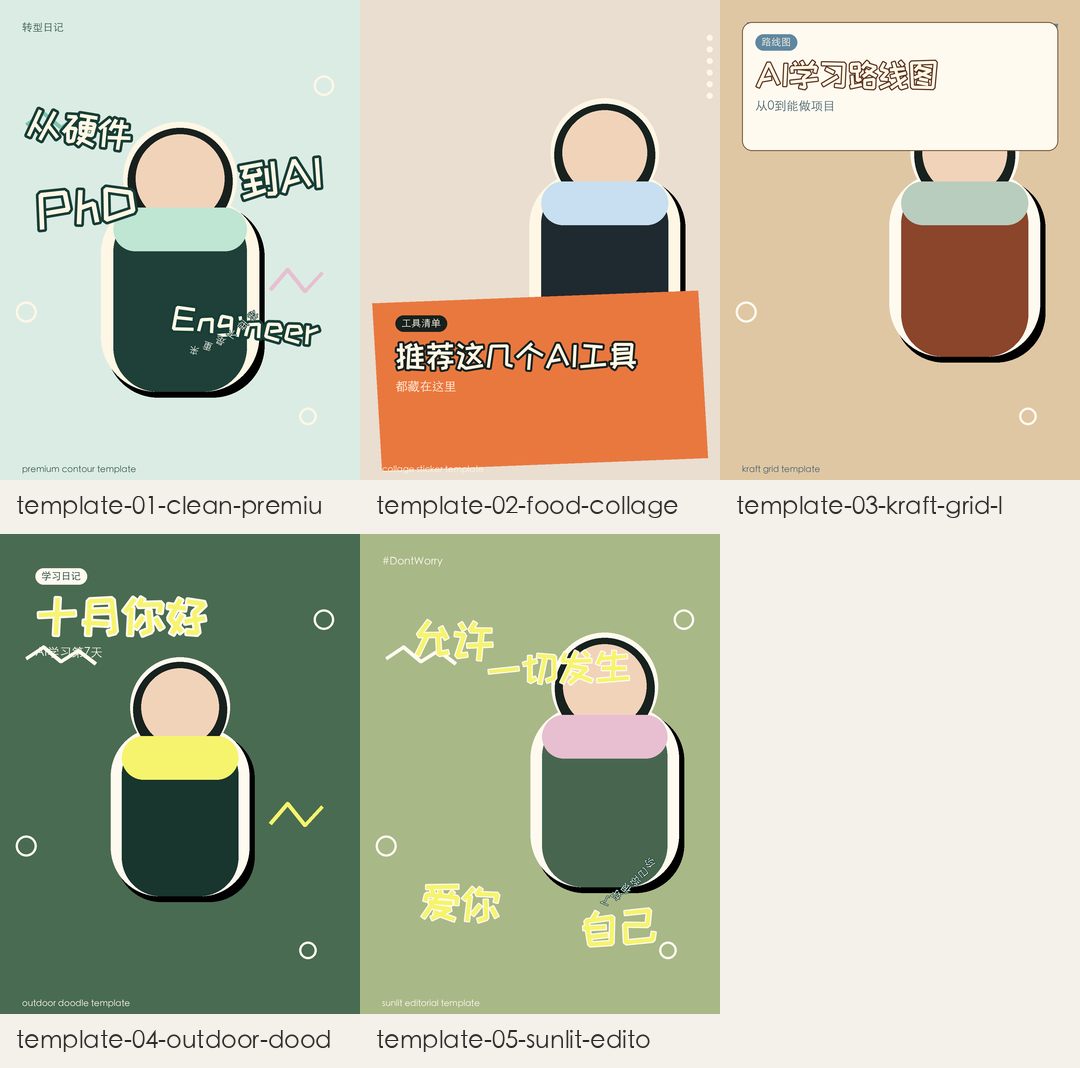
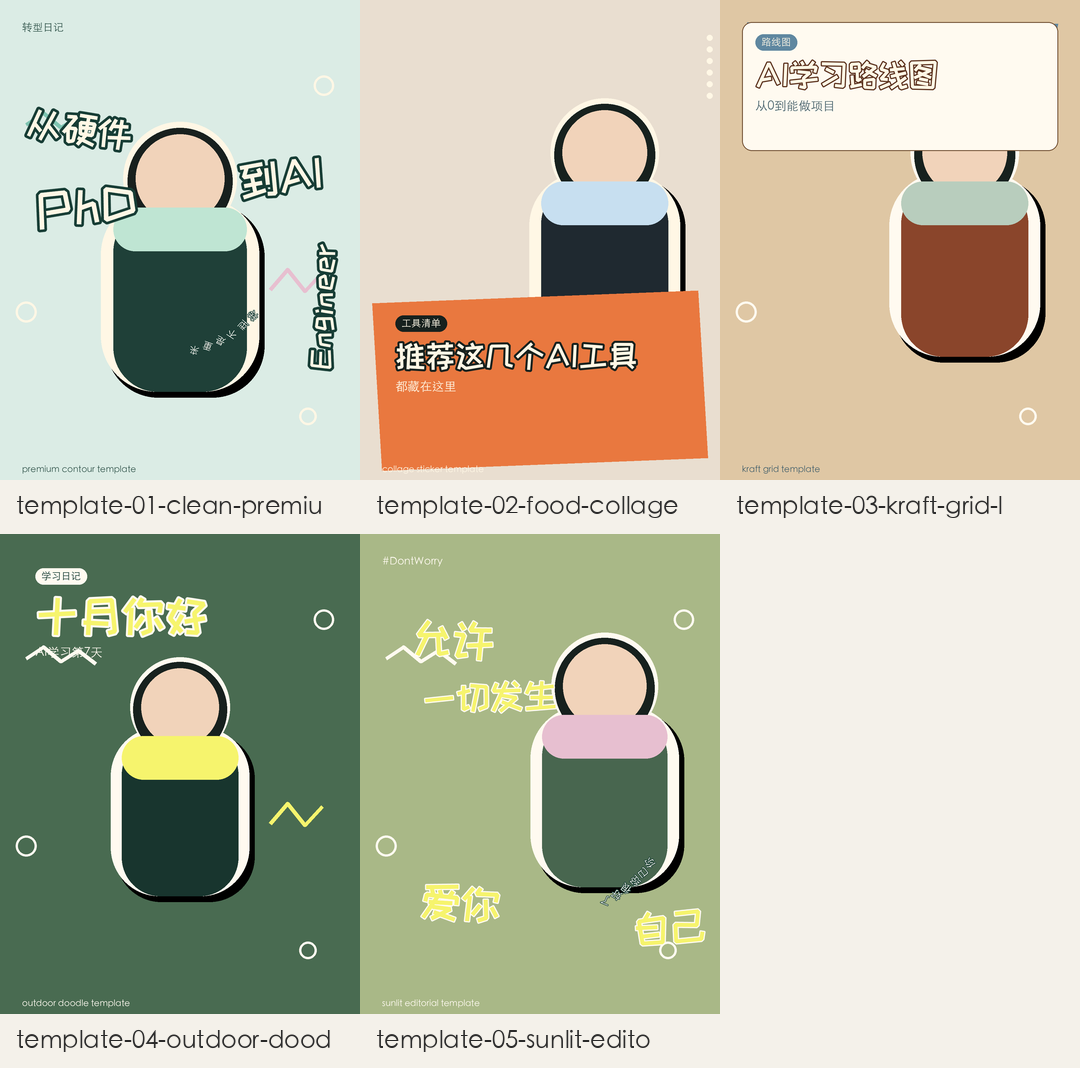
Ensure subtitles render and titles avoid portraits

Changed region(s): [[0.1528, 0.2163, 0.3361, 0.3708], [0.3972, 0.5871, 0.5806, 0.6798], [0.5194, 0.8343, 0.6722, 0.8961]]

diff --git a/selfie-xhs-cover-studio/scripts/render_cover_pack.py b/selfie-xhs-cover-studio/scripts/render_cover_pack.py
@@ -444,6 +444,28 @@ def draw_contour_chunks(image: Image.Image, variant: dict[str, Any], width: int,
     return True
 
 
+def draw_visible_contour_subtitle(image: Image.Image, variant: dict[str, Any], width: int, height: int) -> None:
+    subtitle = str(variant.get("subtitle", "")).strip()
+    if not subtitle:
+        return
+
+    palette = variant.get("palette", {})
+    face = font(int(variant.get("subtitle_size", 48)), "subtitle")
+    center = variant.get("subtitle_center", [0.64, 0.58])
+    draw_arc_text(
+        image,
+        subtitle,
+        (resolve_position(center[0], width), resolve_position(center[1], height)),
+        int(variant.get("subtitle_radius", 360)),
+        float(variant.get("subtitle_start_angle", 18)),
+        float(variant.get("subtitle_angle_step", 6.8)),
+        face,
+        palette.get("subtitle_text", palette.get("muted", "#fffaf0")),
+        int(variant.get("subtitle_stroke_width", 2)),
+        palette.get("subtitle_stroke", palette.get("title_stroke", "#173d35")),
+    )
+
+
 def render_cover(variant: dict[str, Any], canvas: dict[str, int], root: Path) -> Image.Image:
     width = int(canvas.get("width", DEFAULT_CANVAS["width"]))
     height = int(canvas.get("height", DEFAULT_CANVAS["height"]))
@@ -467,6 +489,8 @@ def render_cover(variant: dict[str, Any], canvas: dict[str, int], root: Path) ->
 
     if layout == "contour":
         draw_contour_chunks(image, variant, width, height)
+        if variant.get("subtitle") and not variant.get("arc_subtitles"):
+            draw_visible_contour_subtitle(image, variant, width, height)
         badge = variant.get("badge")
         if badge:
             badge_font = font(int(variant.get("badge_size", 36)), "subtitle")

diff --git a/selfie-xhs-cover-studio/references/template-style-library.md b/selfie-xhs-cover-studio/references/template-style-library.md
@@ -29,7 +29,9 @@ If the buyer does not know which style to choose, recommend 2-3 based on topic:
 All templates share the same foundation:
 
 - Typography: exactly two roles, bold big main title and thin supporting text.
-- Supporting text: small, thin, and when possible lightly curved along the portrait outline.
+- Main title: bold, large, and placed in negative space around the portrait; it must not overlay the person.
+- Supporting text: thin, visible, and when possible lightly curved along the portrait outline.
+- If the user provides a subtitle, the subtitle must appear clearly. Do not hide it as tiny edge microcopy.
 - Background: either a clean low-saturation solid color or the original selfie/photo background.
 - Portrait: always foregrounded with a thick white sticker outline when using the photo background.
 - Template personality comes from foreground details, not a busy base background.
@@ -40,7 +42,7 @@ Use for AI career pivots, founder notes, higher-trust creator posts, and premium
 
 - visual DNA: low-saturation solid background or retained real-photo background, large portrait cutout, thick cream/white outline, 3-5 large title chunks orbiting the person contour
 - palette: deep green, cream, mint, glass blue, pale pink accent
-- title behavior: no colored title backgrounds; use cream or mint-white fill with deep green/charcoal stroke
+- title behavior: no colored title backgrounds; use cream or mint-white fill with deep green/charcoal stroke; keep the main title outside the portrait silhouette
 - best title rhythm: `从硬件 / PhD / 到AI / Engineer`, `科研背景 / 转AI`, `不是重来 / 是升级`
 - avoid: many colors, red/yellow default palette, long subtitles
 
@@ -50,7 +52,7 @@ Inspired by high-energy Xiaohongshu collage covers. Use for tool lists, recommen
 
 - visual DNA: clean solid background, sticker-cut portrait in front, thick outlined headline, diagonal bottom banner, small foreground collage cards or labels
 - palette: espresso or charcoal frame, cream title, amber/mint/coral/blue collage blocks, orange or coral banner
-- title behavior: 2-3 large chunks, heavy black/dark stroke, slight slant for motion
+- title behavior: 2-3 large chunks, heavy black/dark stroke, slight slant for motion; title can overlap banners/cards but not the portrait cutout
 - best title rhythm: `推荐清单`, `这几个工具`, `都藏在这里`
 - avoid: actual watermarked food photos unless the buyer owns them; rebuild collage tiles or use buyer-provided assets
 
@@ -60,7 +62,7 @@ Inspired by scrapbook / child-fashion / lifestyle label covers. Use for structur
 
 - visual DNA: warm low-saturation kraft solid background, optional foreground grid-paper card, tape strips, small labels, large cutout portrait, badge stickers
 - palette: kraft tan, cream, muted blue, deep brown, sage accent
-- title behavior: one strong banner title at top or upper third, small English tag optional
+- title behavior: one strong banner title at top or upper third, small English tag optional; leave portrait clear
 - best title rhythm: `摆脱路人感`, `求职路线图`, `AI学习路线`
 - avoid: overdecorating; keep labels small and readable
 
@@ -70,7 +72,7 @@ Inspired by outdoor season / childlike energy covers. Use for motivation, learni
 
 - visual DNA: muted green solid background or retained outdoor selfie background, oversized title in upper half, hand-drawn white doodles, playful arrows and circles
 - palette: forest green, lemon-lime, white, soft yellow, small charcoal details
-- title behavior: huge title, 1-2 lines only, playful stroke or glow; title should remain readable in feed
+- title behavior: huge title, 1-2 lines only, playful stroke or glow; title should remain readable in feed and avoid the portrait
 - best title rhythm: `十月你好`, `AI学习第7天`, `今天也要继续`
 - avoid: tiny text, too many decorative words, weak contrast over foliage
 
@@ -80,7 +82,7 @@ Inspired by sunny personal-story covers. Use for emotional essays, transformatio
 
 - visual DNA: soft sunlit solid background or retained outdoor selfie background, portrait on one side, elegant oversized title, minimal handwritten arcs or white line accents
 - palette: leaf green, warm sunlight, pale yellow title, white secondary text, muted coral label
-- title behavior: editorial title chunks with airy spacing; optional small hashtag or quote label
+- title behavior: editorial title chunks with airy spacing; optional small hashtag or quote label; title wraps around the portrait rather than sitting on top of it
 - best title rhythm: `允许一切发生`, `爱你已经很好了`, `慢慢变好`
 - avoid: cluttered captions, low-contrast yellow on bright background, adding too many hashtags
 
@@ -89,7 +91,8 @@ Inspired by sunny personal-story covers. Use for emotional essays, transformatio
 Before final delivery, verify:
 
 - title is readable at a small phone-feed size
-- face is not covered by title
+- main title does not cover the face, body, hands, or portrait cutout
+- provided subtitle is visibly present and readable
 - template style is recognizable without copying a watermarked reference
 - Chinese text is deterministic and not hallucinated by the image model
 - the buyer can reuse the same template with a new title/photo

diff --git a/selfie-xhs-cover-studio/references/cover-quality-rules.md b/selfie-xhs-cover-studio/references/cover-quality-rules.md
@@ -18,7 +18,7 @@ If the cover only works when opened full-screen, redesign it.
 - Use a real cutout or high-quality image edit when possible.
 - Add a thick white sticker outline around the person. This is mandatory when retaining the selfie/photo background.
 - Add a thin black outer edge or shadow outside the white outline when the background is busy.
-- Let the person overlap the text or background layers; flat separated cards feel less native.
+- Let the person overlap background decorations and small accents, but never let the main title cover the face, body, or key silhouette.
 - Preserve the original photo background when it adds context, but crop or blur it so the original small person does not repeat behind the cutout.
 
 ## Background Rules
@@ -34,11 +34,13 @@ Do not use busy generated backgrounds, generic gradients, large collage/photo ti
 
 - Keep title copy short. Prefer 3-5 chunks, not a sentence.
 - Arrange title chunks around the person contour: near head, shoulder, waist, or body edge.
+- Main title chunks must sit in negative space around the portrait. They may hug the outline, but they must not overlay the portrait cutout.
 - Do not stack everything in horizontal rows.
 - Do not place important text at the extreme image edges.
 - Use exactly two text roles:
   - main title: bold, large, chunky, feed-readable
-  - subtitle/supporting text: thin font, smaller, preferably curved lightly along the portrait outline
+  - subtitle/supporting text: thin font, visibly readable, preferably curved lightly along the portrait outline
+- If the user provides a subtitle, it is mandatory: place it clearly, usually as thin curved text along the portrait outline or as a small readable line in safe space.
 - Use one unified title color per cover. For premium covers, prefer cream, warm white, mint-white, or pale lemon with dark green/charcoal stroke.
 - Make the title playful through font shape, rotation, chunky scale, and contour placement; do not rely on colored word backgrounds for energy.
 - Do not put a colored background block behind every title word by default. Use text shape, stroke, shadow, and placement first.
@@ -54,9 +56,9 @@ Do not use busy generated backgrounds, generic gradients, large collage/photo ti
 Do not introduce many fonts. Covers should use only:
 
 - Bold title font: the large headline chunks; use bundled `assets/fonts/ZCOOLKuaiLe-Regular.ttf` or another bold CJK display font.
-- Thin subtitle font: small labels, subtitle, curved contour text, micro English/Chinese helper text; use a light CJK font such as STHeiti Light, Hiragino, or another thin readable font.
+- Thin subtitle font: subtitle, curved contour text, small labels, and micro English/Chinese helper text; use a light CJK font such as STHeiti Light, Hiragino, or another thin readable font.
 
-The main title carries impact. The thin subtitle adds polish and can follow the white portrait outline with a slight arc. Avoid multiple decorative fonts in one cover.
+The main title carries impact and must not cover the person. The thin subtitle adds polish and must be visible when provided; it can follow the white portrait outline with a slight arc. Avoid multiple decorative fonts in one cover.
 
 ## Recommended Contour Title Pattern
 
@@ -85,6 +87,8 @@ Keep these chunks visually close to the cutout outline. They should feel like st
 - tiny portrait cards
 - long subtitles
 - one-line-one-row PPT layouts
+- main title overlapping the face, body, or portrait cutout
+- missing subtitle when the user provided one
 - many unrelated colors in title text
 - more than two font roles
 - busy generated backgrounds
@@ -102,7 +106,7 @@ When the user does not specify a style, start here:
 - retain useful real-photo background context
 - add one large portrait cutout with cream/white outline
 - use 4 large title chunks arranged around the person contour
-- add one thin curved subtitle around the portrait outline when it improves polish
+- add one thin curved subtitle around the portrait outline whenever the user provides a subtitle
 - use one title fill color: cream, warm white, or mint-white
 - use deep green or charcoal stroke
 - add only 1-3 small accents: soft ring, hand-drawn squiggle, or tiny label

diff --git a/selfie-xhs-cover-studio/references/reference-template-breakdown.md b/selfie-xhs-cover-studio/references/reference-template-breakdown.md
@@ -8,9 +8,9 @@ Important: do not package third-party reference images as final marketplace asse
 
 A template feels expensive because of small, repeated decisions:
 
-- title has a distinct shape: slant, overlap, alternating scale, or contour placement
+- title has a distinct shape: slant, alternating scale, or contour placement in negative space
 - text has strong readable edges: stroke, shadow, highlight, or glow
-- portrait has separation: thick sticker outline, drop shadow, or foreground overlap
+- portrait has separation: thick sticker outline, drop shadow, or foreground overlap with non-title decorations
 - background has texture: grid, photo tiles, blur, paper, dots, diagonal scratches, or sun flare
 - small labels feel intentional: short badge, micro English, category tag, date, or hashtag
 - decorations follow the composition: arrows, rings, dashed lines, stars, squiggles, not random filler
@@ -25,7 +25,7 @@ Useful details to preserve in the template:
 - dark frame makes all inner elements pop
 - collage tiles create instant "resource list / recommendation" meaning
 - title is split into stacked chunks, tilted slightly, with thick dark outline and bright fill
-- portrait overlaps the collage and title area, creating depth
+- portrait overlaps collage cards or banners to create depth, while the main title stays off the portrait cutout
 - bottom diagonal banner carries a second hook, not a long sentence
 - edge microcopy and repeated small words create density without competing with the main title
 
@@ -112,7 +112,7 @@ Use for:
 
 Template instruction:
 
-Use a warm outdoor/photo background, one large portrait, large pale-yellow title chunks around the person, sparse white arcs, and one tiny hashtag. Keep the emotional title short.
+Use a warm outdoor/photo background, one large portrait, large pale-yellow title chunks around but not on top of the person, sparse white arcs, and one tiny hashtag. Keep the emotional title short.
 
 ## Buyer-Facing Template Names
 

diff --git a/selfie-xhs-cover-studio/SKILL.md b/selfie-xhs-cover-studio/SKILL.md
@@ -69,6 +69,8 @@ If the user does not know the template style, read `references/template-style-li
    - Use `scripts/render_cover_pack.py` when producing PNGs from a cover JSON spec.
    - Use HTML/CSS, Playwright, PIL, or another deterministic renderer if adapting the workflow.
    - Use only two text roles: bold big main title and thin subtitle/supporting text.
+   - Place the bold main title in negative space around the portrait; it must not overlay the person.
+   - If the user provides a subtitle, render it clearly. Do not omit it or hide it as tiny edge decoration.
    - Place the thin subtitle on a slight curve along the portrait outline when possible.
    - For final covers, prefer contour title placement: short title chunks orbit the person outline instead of sitting in rows.
 8. Package the output.
@@ -122,6 +124,7 @@ python3 selfie-xhs-cover-studio/scripts/render_cover_pack.py \
 - Covers must work at phone thumbnail size.
 - Chinese text must be real text rendered by a deterministic layer, not hallucinated inside the generated image.
 - Use only two text roles: bold big main title and thin subtitle/supporting text.
+- Main title must not overlay the portrait cutout; subtitle must be present when provided.
 - Use only two base background modes: clean low-saturation solid color, or retained selfie background with thick white portrait outline.
 - Details sell the image: preserve small labels, edge texture, paper/grid/doodle treatments, portrait sticker edges, type angle, and layer depth when applying a template.
 - Use Xiaohongshu-native visual language: bold outlined headlines, large portrait cutouts, contour title stickers, light doodles, and information-rich layouts. Use bright blocks only for explicitly loud/pop variants.

diff --git a/selfie-xhs-cover-studio/agent-card.md b/selfie-xhs-cover-studio/agent-card.md
@@ -21,10 +21,10 @@ Upload a selfie, give me your exact title, and choose a template style. I will g
 - clean but lively 3:4 cover specs optimized for Xiaohongshu
 - human-readable Chinese title overlays, not broken AI text
 - large portrait cutout direction with white sticker outline
-- contour title layouts where words wrap around the person instead of sitting in rows
+- contour title layouts where words wrap around the person without covering the portrait
 - premium palette options without loud red/yellow title blocks
 - 5 starter template styles: premium contour, collage sticker, kraft grid labels, outdoor doodle big type, sunlit editorial story
-- detail-rich template rules: sticker edges, grid/paper texture, micro labels, doodle marks, title slant, and foreground overlap
+- detail-rich template rules: sticker edges, grid/paper texture, micro labels, doodle marks, title slant, and clean foreground layering
 - caption hooks, post title options, and hashtags
 - a reusable creator brand kit for future posts
 - QA for face visibility, title readability, thumbnail impact, and platform-native style

diff --git a/selfie-xhs-cover-studio/references/output-template.md b/selfie-xhs-cover-studio/references/output-template.md
@@ -54,6 +54,8 @@ For final covers, follow `cover-quality-rules.md`: large cutout, thick cream/whi
 - background mode:
 - headline placement:
 - contour placement plan:
+- portrait avoidance plan for main title:
+- subtitle placement:
 - safe margins:
 - color palette:
 
@@ -98,7 +100,8 @@ Hashtags:
 - face is recognizable
 - no broken text inside the image layer
 - Chinese title is readable at thumbnail size
-- title chunks orbit the portrait contour and do not overlap the face awkwardly
+- main title chunks orbit the portrait contour and do not overlap the portrait cutout
+- provided subtitle is visible and readable
 - main title uses one dominant color with strong outline contrast
 - post claim is not misleading
 - covers feel like one creator brand, not random templates
